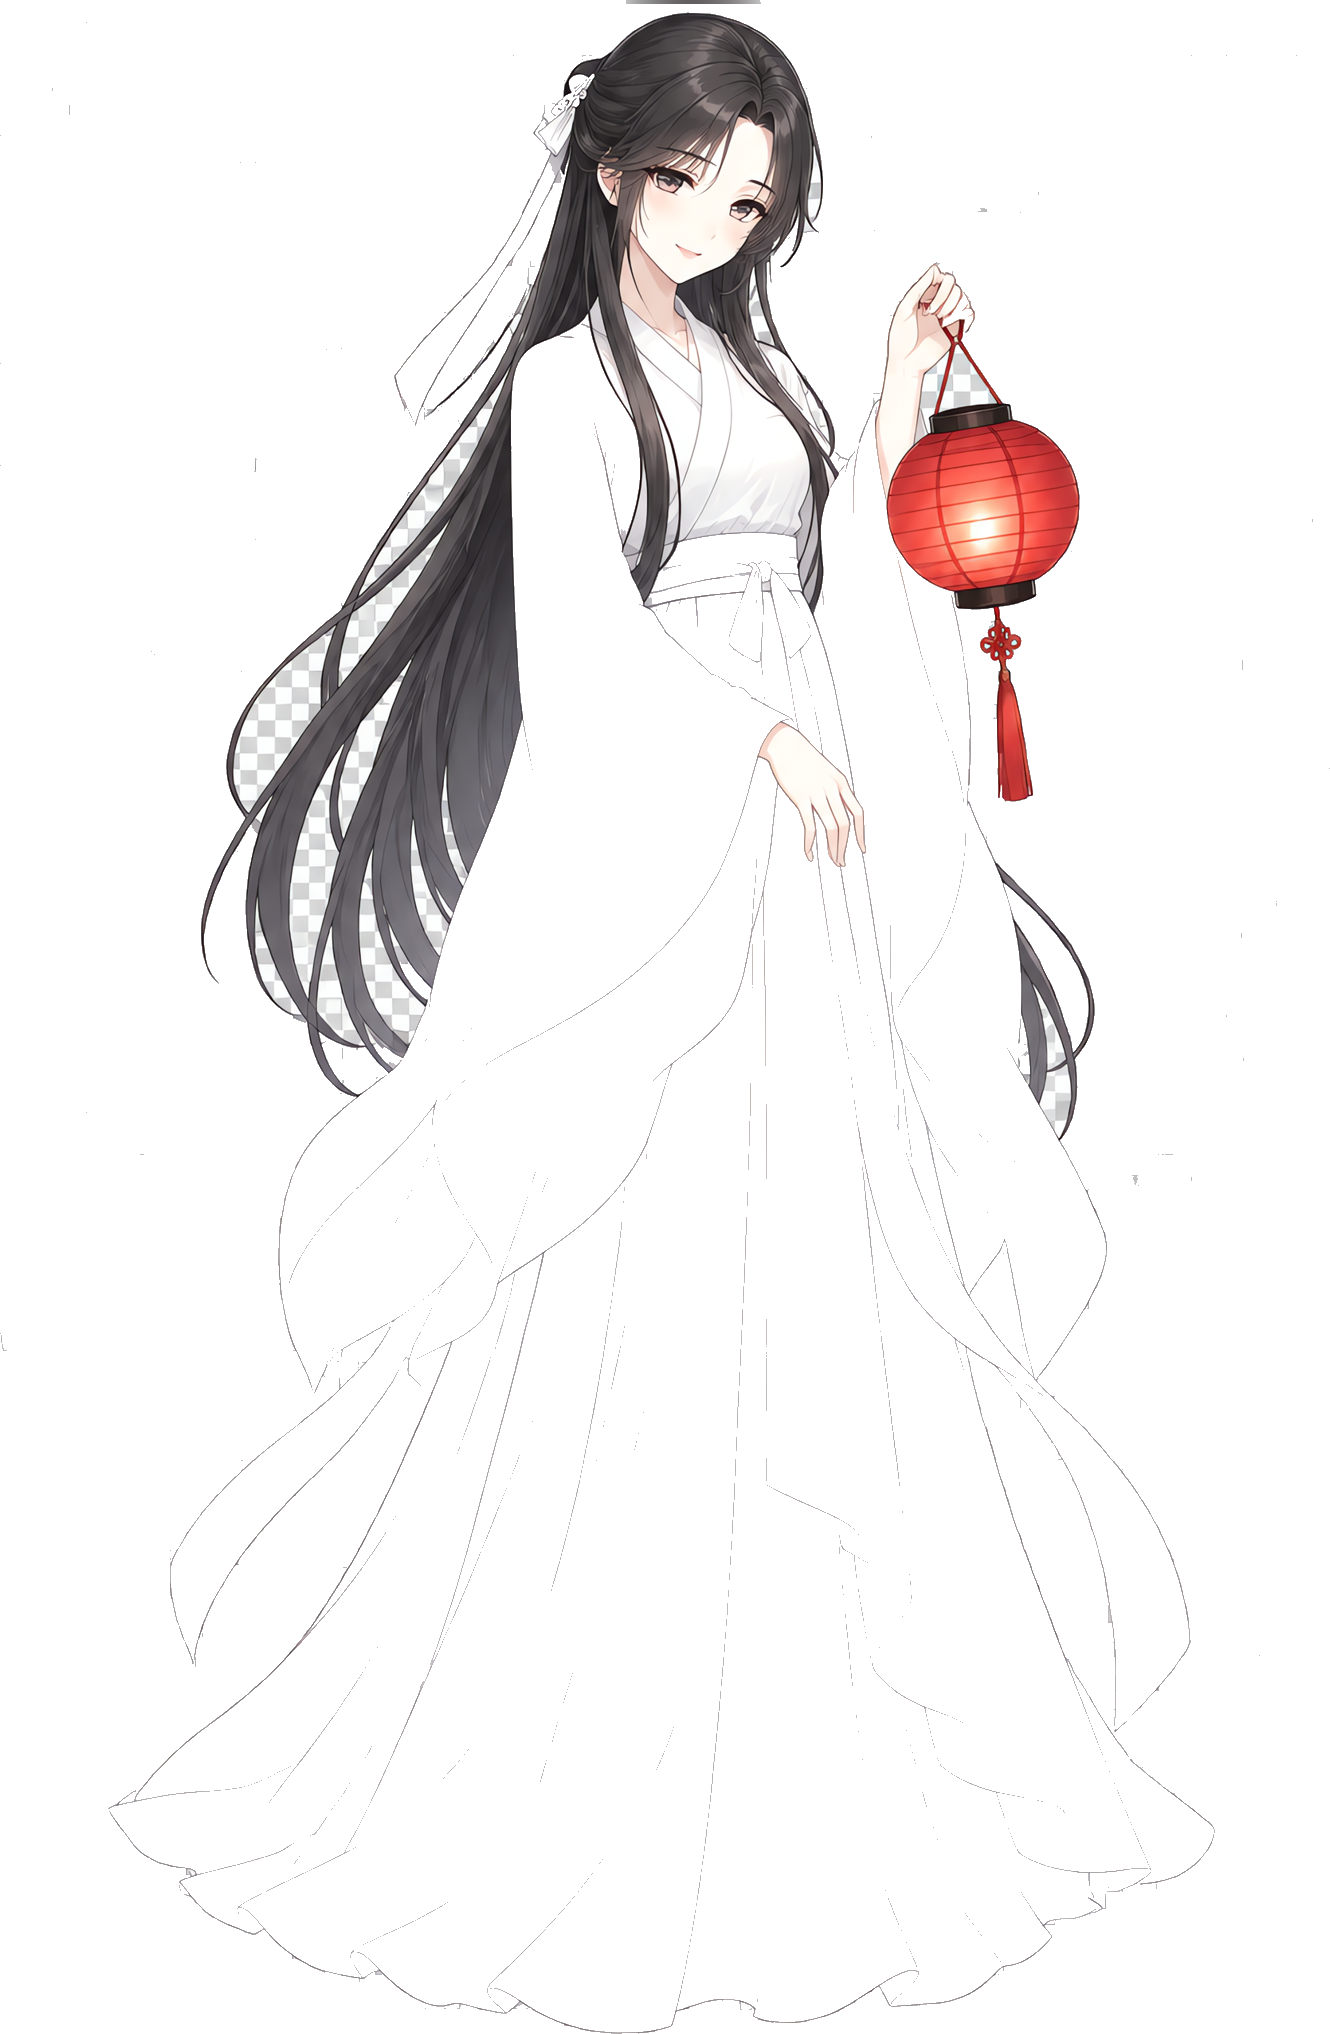
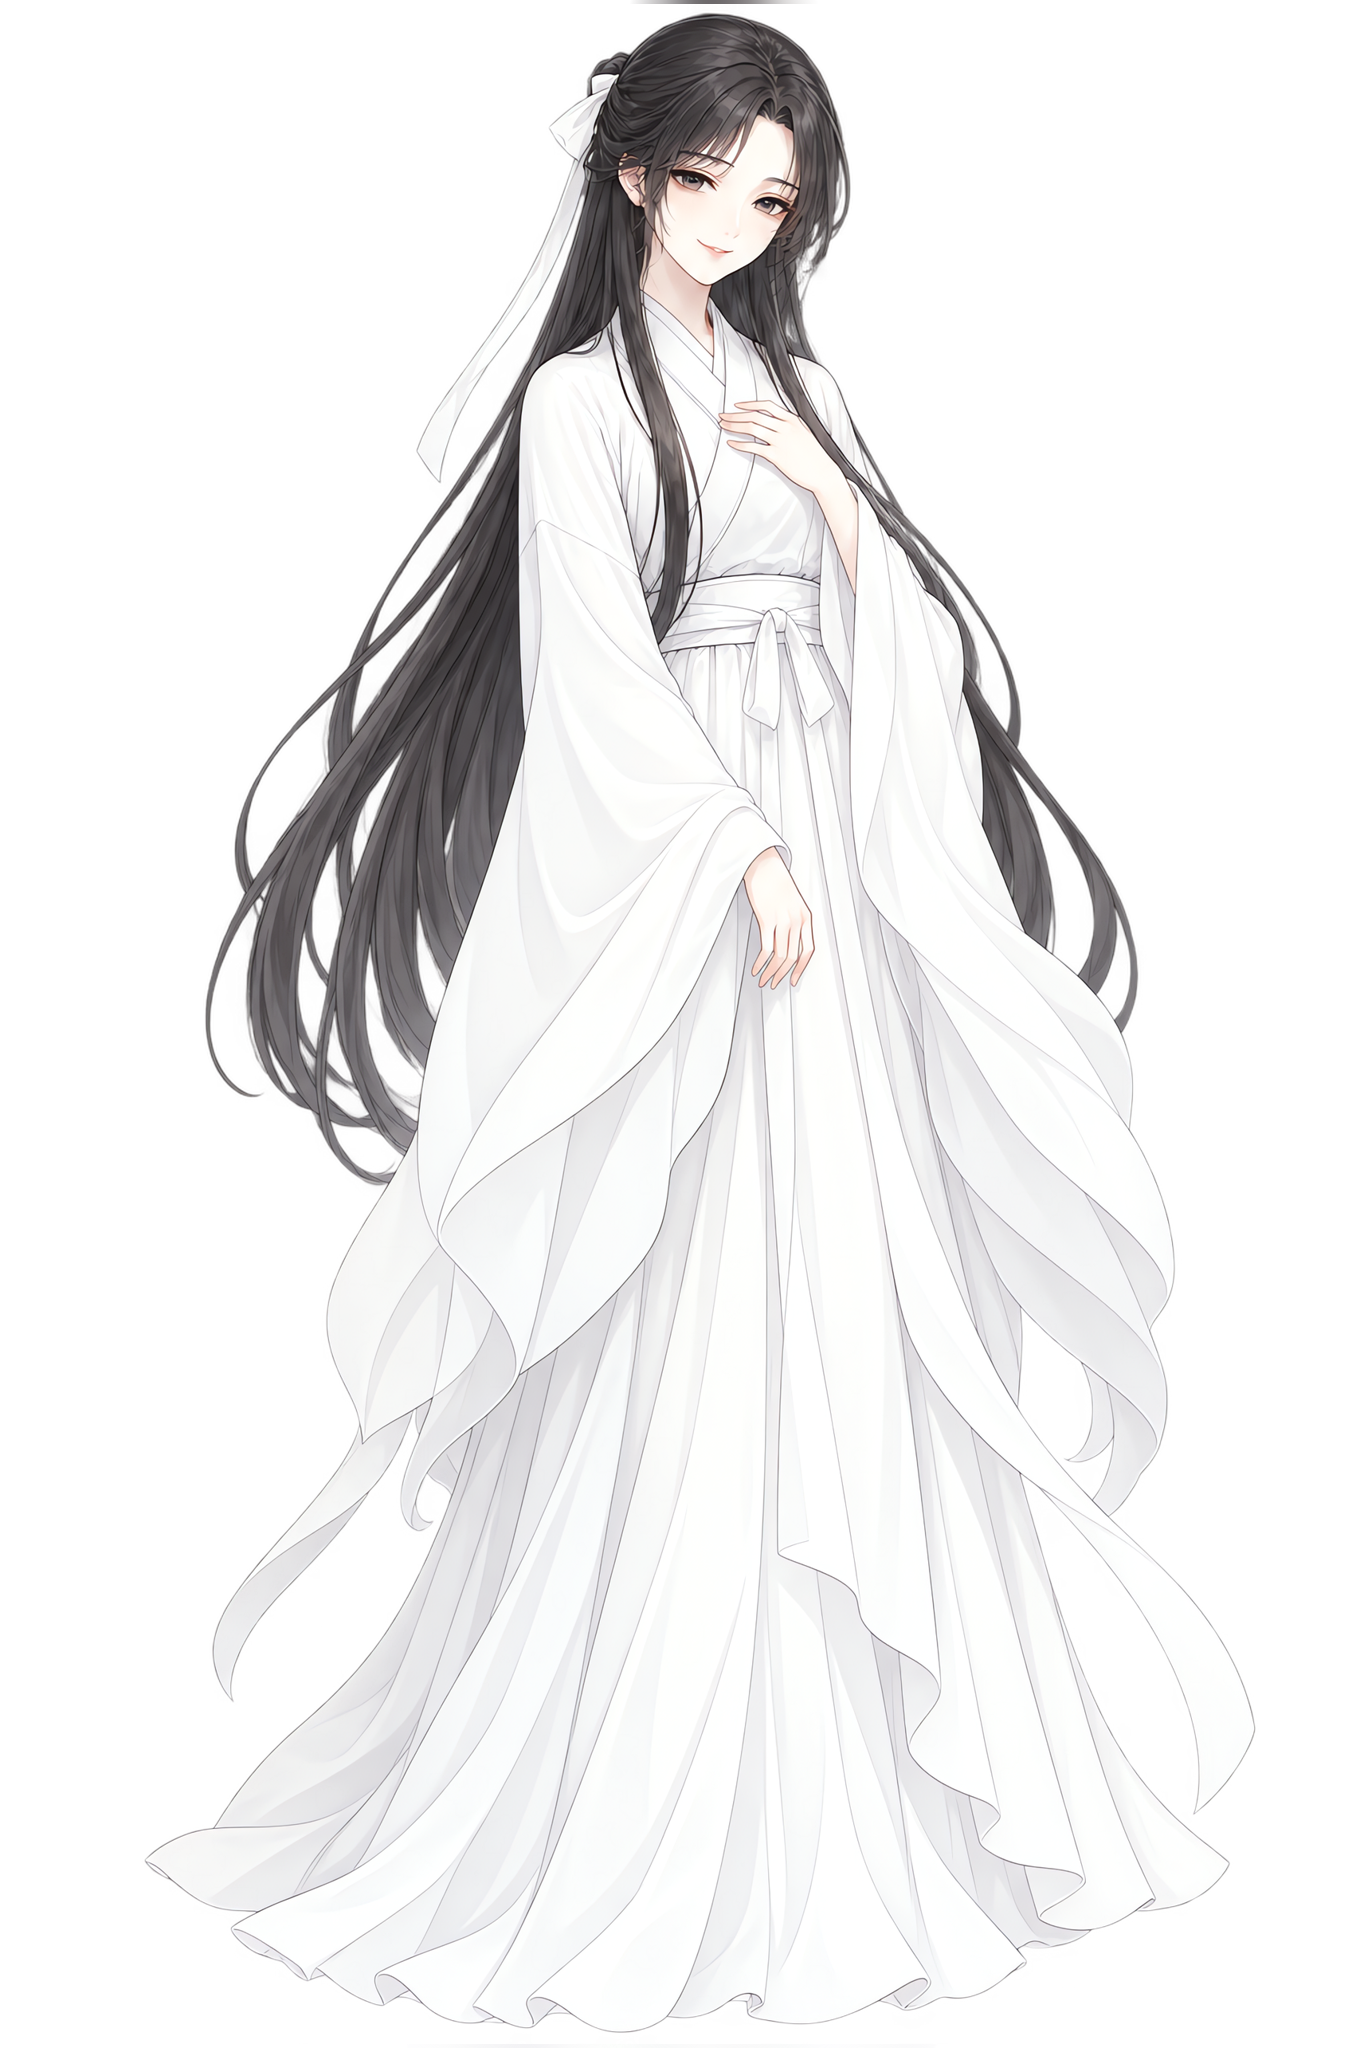
fixbug

diff --git a/webui/ui.js b/webui/ui.js
@@ -15,7 +15,7 @@ const overlay = $("panel-overlay");
 const panelTitle = $("panel-title");
 const panelBody = $("panel-body");
 const ctxMenu = $("context-menu");
-const autoIndicator = $("auto-indicator");
+const autoToggle = $("auto-toggle");
 const storyBar = $("story-bar");
 const storyPosition = $("story-position");
 const storyProgress = $("story-progress");
@@ -521,13 +521,17 @@ document.addEventListener("keyup", (e) => {
   if (e.key === "Control") send("skip_end");
 });
 
-// 顶部按钮
-document.querySelectorAll(".top-btn:not(#story-toggle)").forEach((btn) => {
+// 顶部按钮（带 data-panel 的打开面板；自动按钮单独处理）
+document.querySelectorAll(".top-btn[data-panel]").forEach((btn) => {
   btn.onclick = (e) => {
     e.stopPropagation();
     send("open_panel", { panel: btn.dataset.panel });
   };
 });
+autoToggle.onclick = (e) => {
+  e.stopPropagation();
+  send("toggle_auto");
+};
 
 // 面板关闭按钮 / 点击遮罩空白处
 $("panel-close").onclick = closePanel;
@@ -542,7 +546,7 @@ document.addEventListener("message", (e) => {
     case "init":
       cps = msg.cps || 40;
       autoOn = !!msg.auto;
-      autoIndicator.classList.toggle("hidden", !autoOn);
+      autoToggle.classList.toggle("active", autoOn);
       break;
     case "dialogue":
       startDialogue(msg.speaker, msg.text, msg.color);
@@ -561,7 +565,7 @@ document.addEventListener("message", (e) => {
       break;
     case "auto_state":
       autoOn = !!msg.on;
-      autoIndicator.classList.toggle("hidden", !autoOn);
+      autoToggle.classList.toggle("active", autoOn);
       break;
     case "story_meta":
       storyScenes = msg.scenes || [];

diff --git a/webui/index.html b/webui/index.html
@@ -30,7 +30,7 @@
 
   <!-- 顶部菜单按钮栏 -->
   <div id="topbar">
-    <div id="auto-indicator" class="hidden">▶ 自动</div>
+    <button id="auto-toggle" class="top-btn">▶ 自动 <span class="key">A</span></button>
     <button class="top-btn" data-panel="history">历史 <span class="key">H</span></button>
     <button class="top-btn" data-panel="save">存档</button>
     <button class="top-btn" data-panel="load">读档</button>

diff --git a/webui/style.css b/webui/style.css
@@ -216,13 +216,11 @@ body.menu-open #story-bar { display: none !important; }
   margin-left: 2px;
 }
 
-#auto-indicator {
-  padding: 6px 14px;
-  font-size: 13px;
+#auto-toggle.active {
   color: #f3e9d2;
   font-weight: bold;
   background: linear-gradient(135deg, #7c1a24, #a8232f);
-  border-radius: 2px;
+  border-color: rgba(243, 233, 210, 0.35);
   animation: pulse 1.2s ease-in-out infinite;
 }
 @keyframes pulse { 50% { opacity: 0.65; } }

diff --git a/scripts/Engine/CommandRunner.cs b/scripts/Engine/CommandRunner.cs
@@ -144,6 +144,16 @@ namespace 交互式文本.Engine
                 }
             }
 
+            // CG 背景（cg_ 前缀）自带角色演出，切换时隐藏场上全部立绘避免叠加
+            if (texture != null && asset.StartsWith("cg_", StringComparison.Ordinal))
+            {
+                foreach (var kv in _core.State.Stage.Characters)
+                {
+                    _core.CharacterStage.GetNodeOrNull<Sprite2D>(kv.Key)?.Hide();
+                    kv.Value.Visible = false;
+                }
+            }
+
             _core.State.Stage.BackgroundColor = color;
             _core.State.Stage.BackgroundPath = asset;
         }

diff --git a/AGENTS.md b/AGENTS.md
@@ -43,7 +43,7 @@ scripts/               # C# 源码（全部位于 交互式文本.* 命名空间
     DialogueBox.cs     # 对话框桥：保留 ShowDialogue/ShowChoices 等签名，转发 WebUI
 story/main.json        # 《青灯引》剧情脚本（characters + scenes/commands，44 场景 / 3 结局）
 assets/                # 资源
-  backgrounds/         # 背景图（PNG；剧情 CG 也放这里，以 cg_ 前缀命名，用 bg 指令展示）
+  backgrounds/         # 背景图（PNG；剧情 CG 也放这里，以 cg_ 前缀命名，用 bg 指令展示；切换到 cg_ 背景时引擎自动隐藏场上全部立绘）
   characters/<角色id>/ # 立绘，按 角色id/表情名.png 组织（如 a_wan/smile.png）
   bgm/ se/ voice/      # 对应音频资源（指令按文件名引用；BGM 为 .ogg，SE 为 .wav）
 addons/godot_wry/      # Godot WRY WebView GDExtension（驱动整个 Web UI 层）
